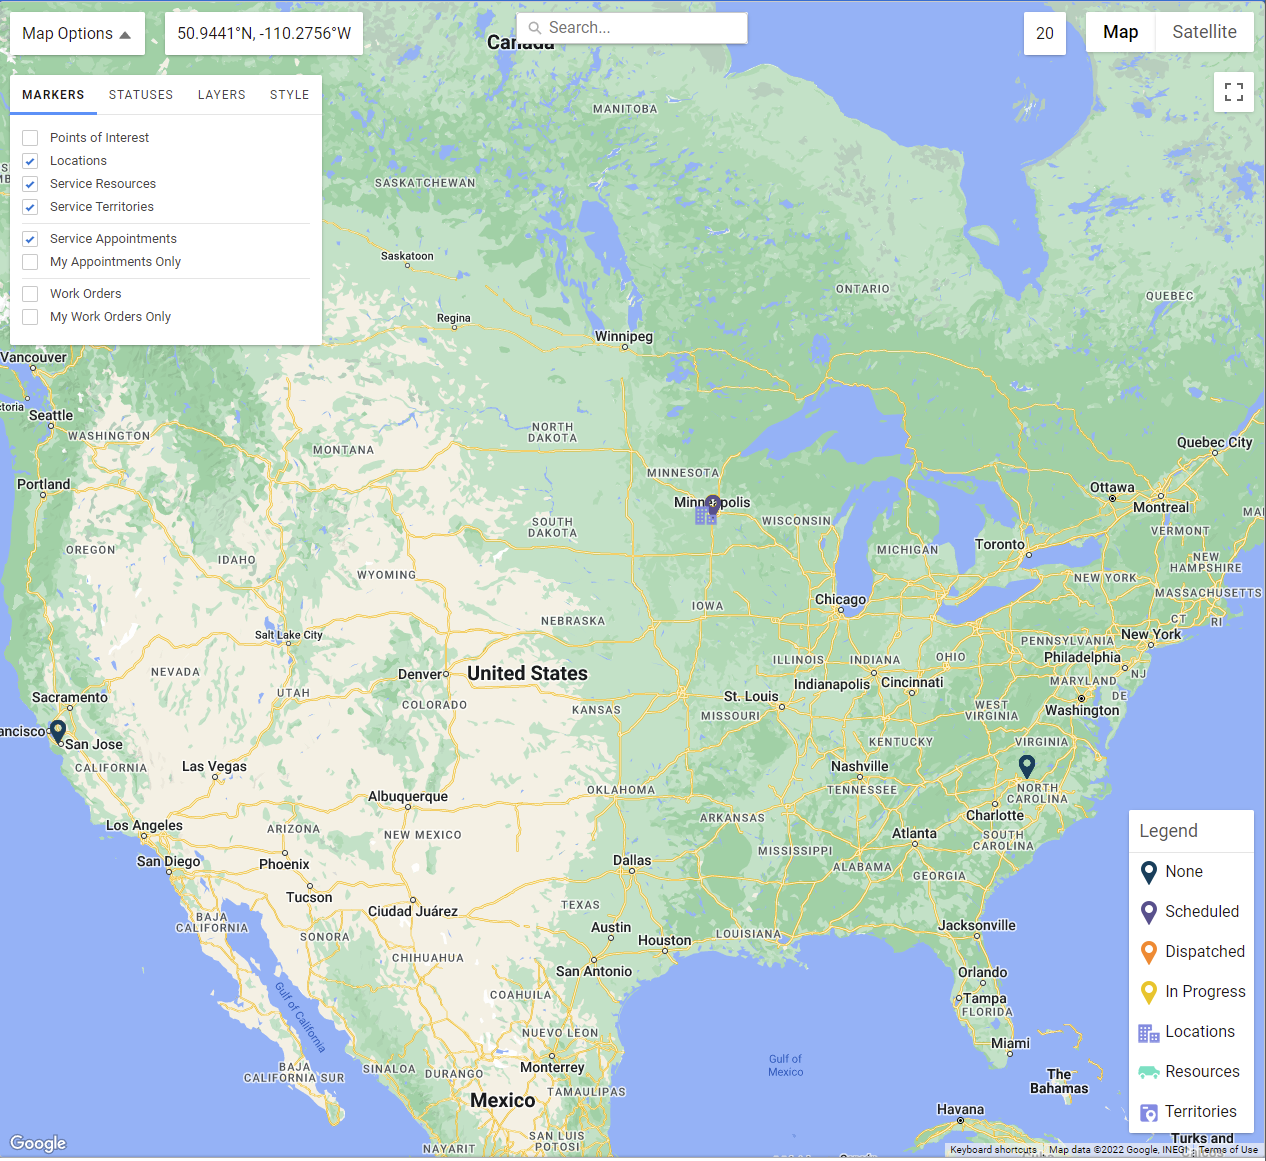
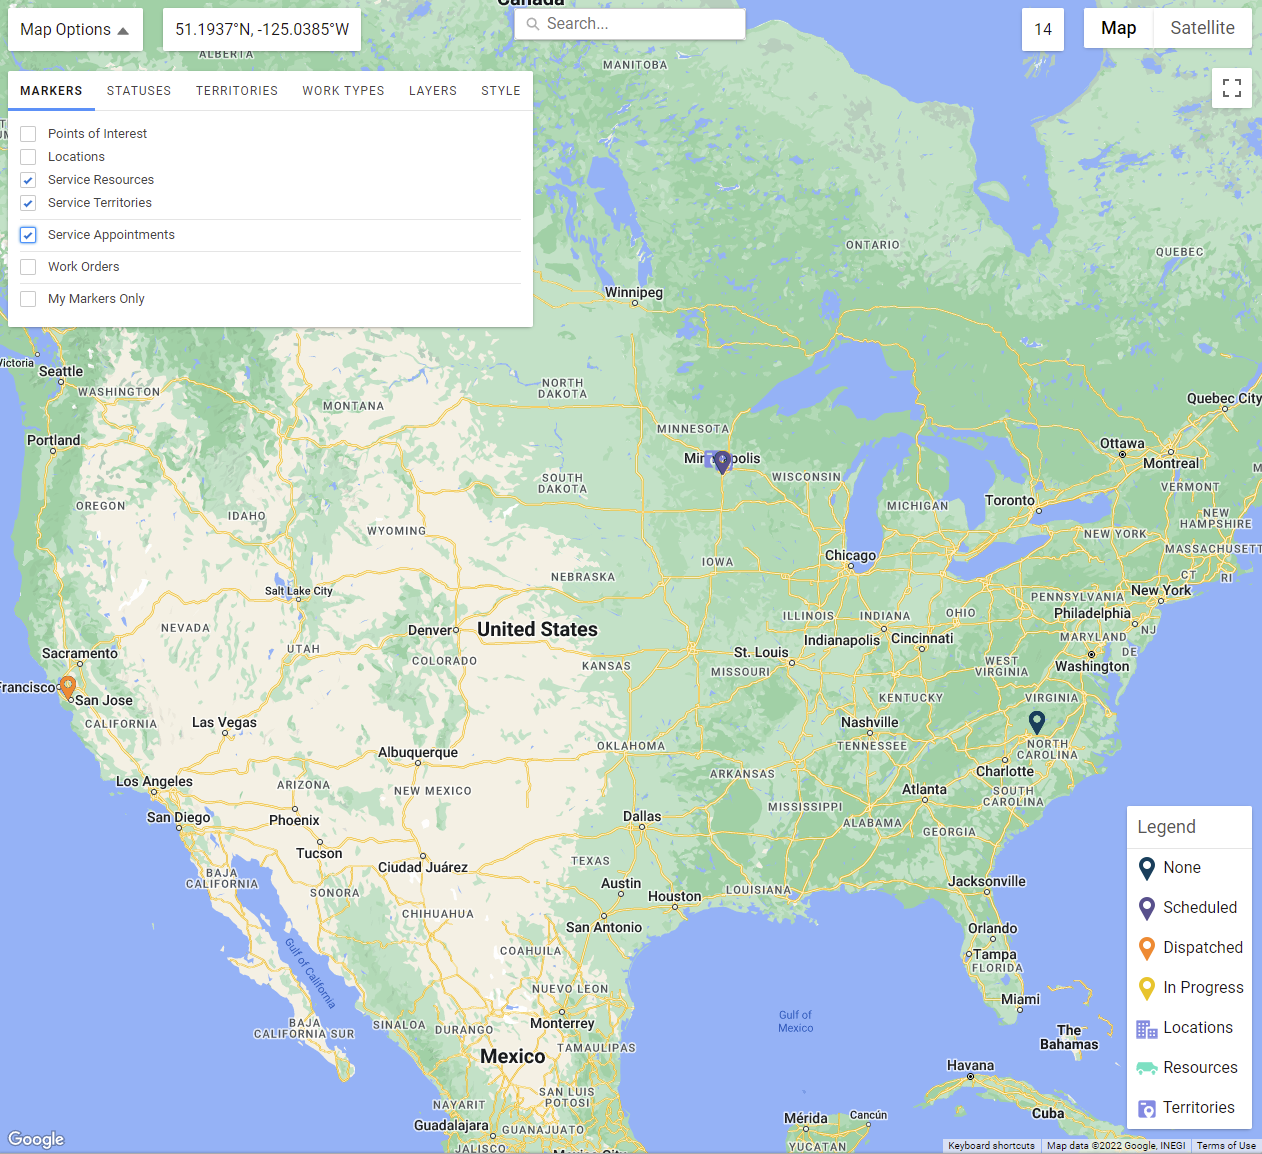
Update readme

diff --git a/README.md b/README.md
@@ -2,7 +2,7 @@
 
 This map allows you to view [Service Appointments](https://developer.salesforce.com/docs/atlas.en-us.object_reference.meta/object_reference/sforce_api_objects_serviceappointment.htm) or [Work Orders](https://developer.salesforce.com/docs/atlas.en-us.object_reference.meta/object_reference/sforce_api_objects_workorder.htm) with [Locations](https://developer.salesforce.com/docs/atlas.en-us.object_reference.meta/object_reference/sforce_api_objects_location.htm), [Service Resources](https://developer.salesforce.com/docs/atlas.en-us.object_reference.meta/object_reference/sforce_api_objects_serviceresource.htm) and [Service Territories](https://developer.salesforce.com/docs/atlas.en-us.object_reference.meta/object_reference/sforce_api_objects_serviceterritory.htm)!
 
-You can filter by status and also search.
+You can filter by status, territory or work type and also search.
 
 Add layers like drawing, heatmap, polygons and traffic.
 
@@ -17,6 +17,7 @@ You can even use this without the need for a "Dispatcher License".
 * Deploy using the button below
 * Assign the "Work Map" permission set to anyone who needs access
 * Create a new "Work Map" metadata record called "Default" and add your [Google Api Key](https://developers.google.com/maps/documentation/javascript/get-api-key)
+* You _may_ have to adjust "Sharing Settings" to allow public read on "Work Type"
 
 # Deploy
 
@@ -31,6 +32,15 @@ You can even use this without the need for a "Dispatcher License".
 ## Filter by Status
 ![Screenshot_By_Status](images/Capture_By_Status.PNG)
 
+## Filter by Territory
+![Screenshot_By_Territory](images/Capture_By_Territory.PNG)
+
+## Filter by Work Type
+![Screenshot_By_WorkType](images/Capture_By_WorkType.PNG)
+
+## Add Layers
+![Screenshot_Layers](images/Capture_Layers.PNG)
+
 ## Style the map
 ![Screenshot_Style](images/Capture_Style.PNG)
 
@@ -38,4 +48,4 @@ You can even use this without the need for a "Dispatcher License".
 
 | Class | Percent | Lines |
 | ----- | ------- | ----- |
-| WorkMapController | 91% | 119/130 |
+| WorkMapController | 92% | 146/157 |
